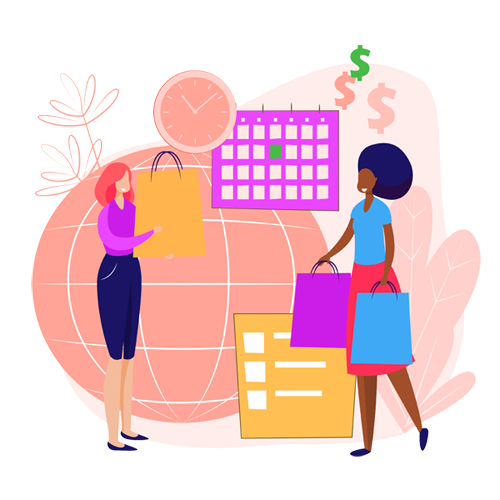
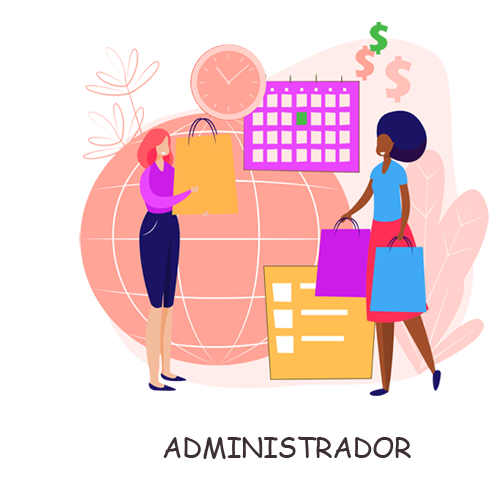
Implementando melhorias na pagina Login usando Material UI

diff --git a/client/src/pages/admin/login/index.js b/client/src/pages/admin/login/index.js
@@ -12,9 +12,17 @@ import LockOutlinedIcon from '@material-ui/icons/LockOutlined';
 import Typography from '@material-ui/core/Typography';
 import { makeStyles } from '@material-ui/core/styles';
 import Container from '@material-ui/core/Container';
+import FormControl from '@material-ui/core/FormControl';
+import OutlinedInput from '@material-ui/core/OutlinedInput';
+import InputLabel from '@material-ui/core/InputLabel';
+import InputAdornment from '@material-ui/core/InputAdornment';
+import IconButton from '@material-ui/core/IconButton';
+import Visibility from '@material-ui/icons/Visibility';
+import VisibilityOff from '@material-ui/icons/VisibilityOff';
+import CircularProgress from '@material-ui/core/CircularProgress';
 
 import api from '../../../services/api';
-import { setNomeUsuario, login, setIdUsuario } from '../../../services/auth';
+import { setNomeUsuario, login, setIdUsuario, setTipoUsuario } from '../../../services/auth';
 
 function Copyright() {
   return (
@@ -53,6 +61,8 @@ export default function SignIn() {
   const classes = useStyles();
   const [ email, setEmail ] = useState('');
   const [ senha, setSenha ] = useState('');
+  const [ showPassword, setShowPassword ] = useState(false);
+  const [ loading, setLoading ] = useState(false);
 
   async function handleSubmit(){
       await api.post('/api/usuarios/login', {email, senha})
@@ -62,16 +72,26 @@ export default function SignIn() {
                   login(res.data.token);
                   setIdUsuario(res.data.id_client);
                   setNomeUsuario(res.data.user_name);
+                  setTipoUsuario(res.data.user_type);
 
                   window.location.href= '/admin'
               } else if(res.data.status===2){
                   alert('Atenção: '+res.data.error);
               }
+              setLoading(false);
           } else {
               alert('Erro no servidor');
+              setLoading(false);
           }
       })
+  }
 
+  function loadSubmit(){
+    setLoading(true);
+    setTimeout(
+      () => handleSubmit(),
+      2000
+    )
   }
 
   return (
@@ -97,7 +117,7 @@ export default function SignIn() {
             value={email}
             onChange={e => setEmail(e.target.value)}
           />
-          <TextField
+          {/*<TextField
             variant="outlined"
             margin="normal"
             required
@@ -109,15 +129,39 @@ export default function SignIn() {
             autoComplete="current-password"
             value={senha}
             onChange={e => setSenha(e.target.value)}
+          /> */}
+
+        <FormControl variant="outlined" style={{width:'100%', marginTop:10}} >
+          <InputLabel htmlFor="campoSenha">Digite sua senha</InputLabel>
+          <OutlinedInput
+            id="campoSenha"
+            type={showPassword ? 'text' : 'password'}
+            value={senha}
+            onChange={e => setSenha(e.target.value)}
+            endAdornment={
+              <InputAdornment position="end">
+                <IconButton
+                  aria-label="toggle password visibility"
+                  onClick={e => setShowPassword(!showPassword)}
+                  edge="end"
+                >
+                  {showPassword ? <Visibility /> : <VisibilityOff />}
+                </IconButton>
+              </InputAdornment>
+            }
+            labelWidth={130}
           />
+        </FormControl>
+
           <Button
             fullWidth
             variant="contained"
             color="primary"
             className={classes.submit}
-            onClick={handleSubmit}
+            onClick={loadSubmit}
+            disabled={loading}
           >
-            Entrar
+            {loading?<CircularProgress />:"ENTRAR"}
           </Button>
       </div>
       <Box mt={8}>

diff --git a/src/controllers/usuarios.controller.js b/src/controllers/usuarios.controller.js
@@ -38,7 +38,7 @@ module.exports = {
     },
     async login(req, res){
         const { email, senha} = req.body;
-        Usuario.findOne({email_usuario: email, tipo_usuario:1}, function(err, user){
+        Usuario.findOne({email_usuario: email}, function(err, user){
             if(err){
                 console.log(err);
                 res.status(200).json({error: "Erro no servidor. Por favor, tente novamente"});
@@ -56,7 +56,7 @@ module.exports = {
                             expiresIn: '24h'
                         })
                         res.cookie('token', token, {httpOnly: true});
-                        res.status(200).json({status:1, auth:true, token:token, id_client: user._id, user_name: user.nome_usuario});
+                        res.status(200).json({status:1, auth:true, token:token, id_client: user._id, user_name: user.nome_usuario, user_type:user.tipo_usuario});
                     }
                 })                
             }
@@ -75,5 +75,14 @@ module.exports = {
                 }
             })
         }
+    },
+    async destroyToken(req, res){
+        const token = req.headers.token;
+        if(token){
+            res.cookie('token',null,{httpOnly:true});
+        } else {
+            res.status(401).send("Logout não autorizado!")
+        }
+        res.send("Sessão finalizada com sucesso!");
     }
 }

diff --git a/client/src/pages/admin/usuarios/index.js b/client/src/pages/admin/usuarios/index.js
@@ -22,6 +22,7 @@ import ImgAdmin from '../../../assets/img/admin.png';
 
 import Footer from '../../../components/footer-admin';
 import api from '../../../services/api';
+import { getNomeTipo, getNomeTipoLabel } from '../../../functions/static_data';
 
 const useStyles = makeStyles((theme) => ({
   root: {
@@ -104,10 +105,7 @@ export default function UsuariosListagem() {
                                 {row.nome_usuario}
                               </TableCell>
                               <TableCell align="center">{row.email_usuario}</TableCell>
-                              <TableCell align="center">{row.tipo_usuario === 1 ?
-                                            <Chip label="Administrador" color="primary"/> : 
-                                            <Chip label="Funcionário" color="secondary"/>}
-                              </TableCell>
+                              <TableCell align="center"><Chip label={getNomeTipo(row.tipo_usuario)} color={getNomeTipoLabel(row.tipo_usuario)}/></TableCell>
                               <TableCell align="center">{new Date(row.createdAt).toLocaleString('pt-br')}</TableCell>
                               <TableCell align="right">
                                 <ButtonGroup aria-label="outlined primary button group">

diff --git a/client/src/pages/admin/dashboard/index.js b/client/src/pages/admin/dashboard/index.js
@@ -6,12 +6,14 @@ import Container from '@material-ui/core/Container';
 import Grid from '@material-ui/core/Grid';
 import Paper from '@material-ui/core/Paper';
 
-
 import MenuAdmin from '../../../components/menu-admin';
-
-import ImgAdmin from '../../../assets/img/admin.png';
+import { getTipoUsuario } from '../../../services/auth';
 
 import Footer from '../../../components/footer-admin';
+
+import DashFuncionario from './funcionario';
+import DashGerente from './gerente';
+import DashAdmin from './admin';
 
 const useStyles = makeStyles((theme) => ({
   root: {
@@ -38,6 +40,16 @@ const useStyles = makeStyles((theme) => ({
   },
 }));
 
+function getDashboard(){
+  if(getTipoUsuario()==='1'){
+    return <DashAdmin />
+  } else if( getTipoUsuario()==='2'){
+    return <DashGerente />
+  } else {
+    return <DashFuncionario />
+  }
+}
+
 export default function Dashboard() {
   const classes = useStyles();
 
@@ -48,7 +60,7 @@ export default function Dashboard() {
         <div className={classes.appBarSpacer} />
         <Container maxWidth="lg" className={classes.container}>
           <Grid container spacing={3}>
-            <img src={ImgAdmin} />
+            { getDashboard() }
           </Grid>
           <Box pt={4}>
             <Footer />

diff --git a/client/src/components/list-menu-admin.js b/client/src/components/list-menu-admin.js
@@ -7,6 +7,8 @@ import DashboardIcon from '@material-ui/icons/Dashboard';
 import ShoppingCartIcon from '@material-ui/icons/ShoppingCart';
 import PeopleIcon from '@material-ui/icons/People';
 import ExitToApp from '@material-ui/icons/ExitToApp';
+import api from '../services/api';
+import { getToken, logout } from '../services/auth';
 
 export const mainListItems = (
   <div>
@@ -38,7 +40,7 @@ export const mainListItems = (
 export const secondaryListItems = (
   <div>
     <ListSubheader inset>Opções</ListSubheader>
-    <ListItem button>
+    <ListItem button onClick={confirmSair}>
       <ListItemIcon>
         <ExitToApp />
       </ListItemIcon>
@@ -46,3 +48,15 @@ export const secondaryListItems = (
     </ListItem>
   </div>
 );
+
+async function confirmSair(){
+  if(window.confirm("Deseja realmente sair do sistema?")){
+    const response = await api.get("/api/usuarios/destroytoken", {headers:{token: getToken()}});
+    if(response.status===200){
+      logout();
+      window.Location.href = '/admin/login'
+    } else {
+      alert("Não foi possivel fazer o logout!");
+    }
+  }
+}

diff --git a/client/src/components/menu-admin.js b/client/src/components/menu-admin.js
@@ -13,6 +13,8 @@ import Typography from '@material-ui/core/Typography';
 import IconButton from '@material-ui/core/IconButton';
 
 import { mainListItems, secondaryListItems } from './list-menu-admin';
+import { getNomeUsuario } from '../services/auth';
+import logoSistema from '../assets/img/logo-sistema.png';
 
 const drawerWidth = 240;
 
@@ -106,6 +108,7 @@ export default function ManuAdmin({title}) {
             <Typography component="h1" variant="h6" color="inherit" noWrap className={classes.title}>
                 {title}
             </Typography>
+            {getNomeUsuario()}
 
             </Toolbar>
         </AppBar>
@@ -117,6 +120,7 @@ export default function ManuAdmin({title}) {
         open={open}
       >
             <div className={classes.toolbarIcon}>
+              <img styke={{width:150, height:50}} src={logoSistema} alt="Logo sistema" />
             <IconButton onClick={handleDrawerClose}>
                 <ChevronLeftIcon />
             </IconButton>

diff --git a/client/src/services/auth.js b/client/src/services/auth.js
@@ -10,9 +10,10 @@ export const setIdUsuario = id => localStorage.setItem(ID_USUARIO, id);
 export const getIdUsuario = () => localStorage.getItem(ID_USUARIO);
 
 export const setNomeUsuario = nome => localStorage.setItem(NOME_USUARIO, nome);
-export const getNomesuario = () => localStorage.getItem(NOME_USUARIO);
+export const getNomeUsuario = () => localStorage.getItem(NOME_USUARIO);
 
 export const setTipoUsuario = tipo => localStorage.setItem(USER_TYPE, tipo);
 export const getTipoUsuario = () => localStorage.getItem(USER_TYPE);
 
 export const getToken = () => localStorage.getItem(TOKEN_KEY);
+

diff --git a/client/src/pages/admin/usuarios/usuarios.editar.js b/client/src/pages/admin/usuarios/usuarios.editar.js
@@ -141,7 +141,8 @@ export default function UsuarioCadastrar() {
                     >
                       <option aria-label="None" value="" />
                       <option value={1}>Administrador</option>
-                      <option value={2}>Funcionário</option>
+                      <option value={2}>Gerente</option>
+                      <option value={3}>Funcionário</option>                    
                     </Select>
                   </FormControl>
                 </Grid>

diff --git a/client/src/pages/admin/usuarios/usuarios.cadastrar.js b/client/src/pages/admin/usuarios/usuarios.cadastrar.js
@@ -123,7 +123,8 @@ export default function UsuarioCadastrar() {
                     >
                       <option aria-label="None" value="" />
                       <option value={1}>Administrador</option>
-                      <option value={2}>Funcionário</option>
+                      <option value={2}>Gerente</option>
+                      <option value={3}>Funcionário</option>
                     </Select>
                   </FormControl>
                 </Grid>

diff --git a/src/routes.js b/src/routes.js
@@ -15,6 +15,7 @@ routes.delete('/api/usuarios/:_id',Usuario.delete);
 routes.put('/api/usuarios',Usuario.update);
 routes.post('/api/usuarios/login', Usuario.login);
 routes.get('/api/usuarios/checktoken', Usuario.checkToken);
+routes.get('/api/usuarios/destroytoken', Usuario.destroyToken);
 
 // Rotas de Produtos
 routes.post('/api/produtos', Produto.create);

diff --git a/client/src/functions/static_data.js b/client/src/functions/static_data.js
@@ -1,0 +1,10 @@
+
+export const getNomeTipo = (value) => {
+    var arr = ['Administrador', 'Gerente', 'Funcionário'] ;
+    return arr[value-1];
+};
+
+export const getNomeTipoLabel = (value) => {
+    var arr = ['primary', 'default', 'secondary'] ;
+    return arr[value-1];
+};

diff --git a/client/src/pages/admin/dashboard/funcionario.js b/client/src/pages/admin/dashboard/funcionario.js
@@ -1,0 +1,6 @@
+import React from 'react';
+import ImgAdmin from '../../../assets/img/admin-funcionario.png';
+
+export default function Dashboard() {
+   return (<img src={ImgAdmin} />);
+}
